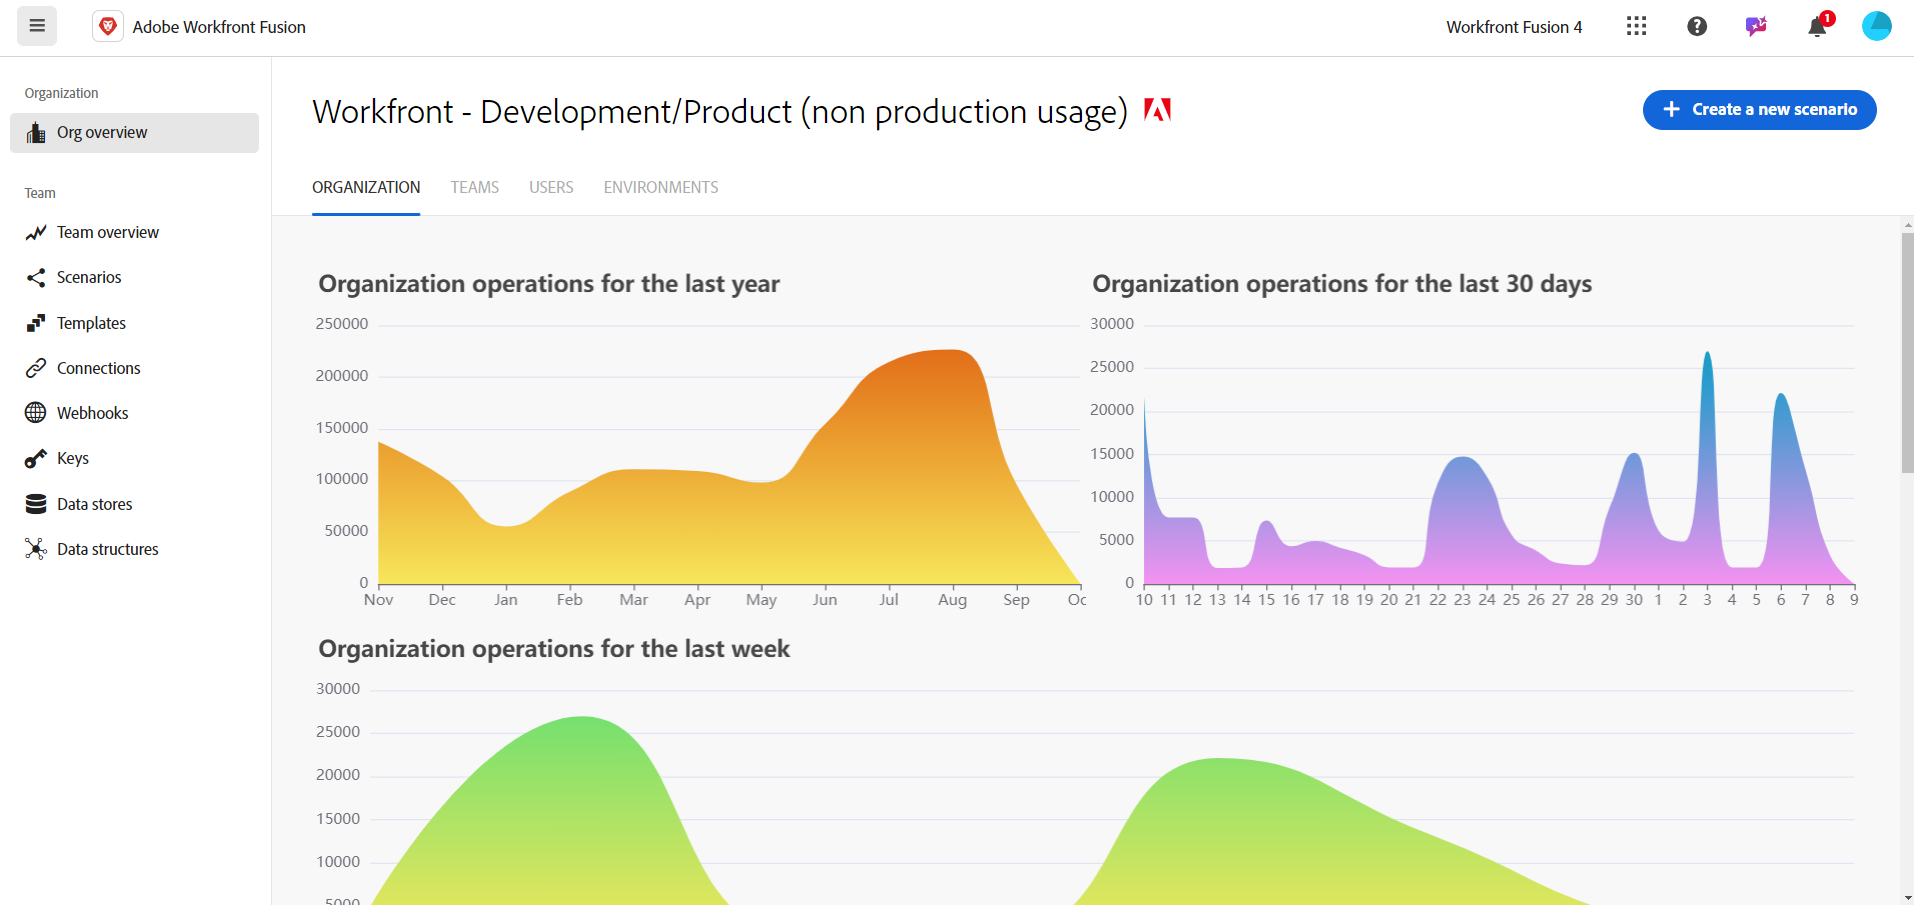
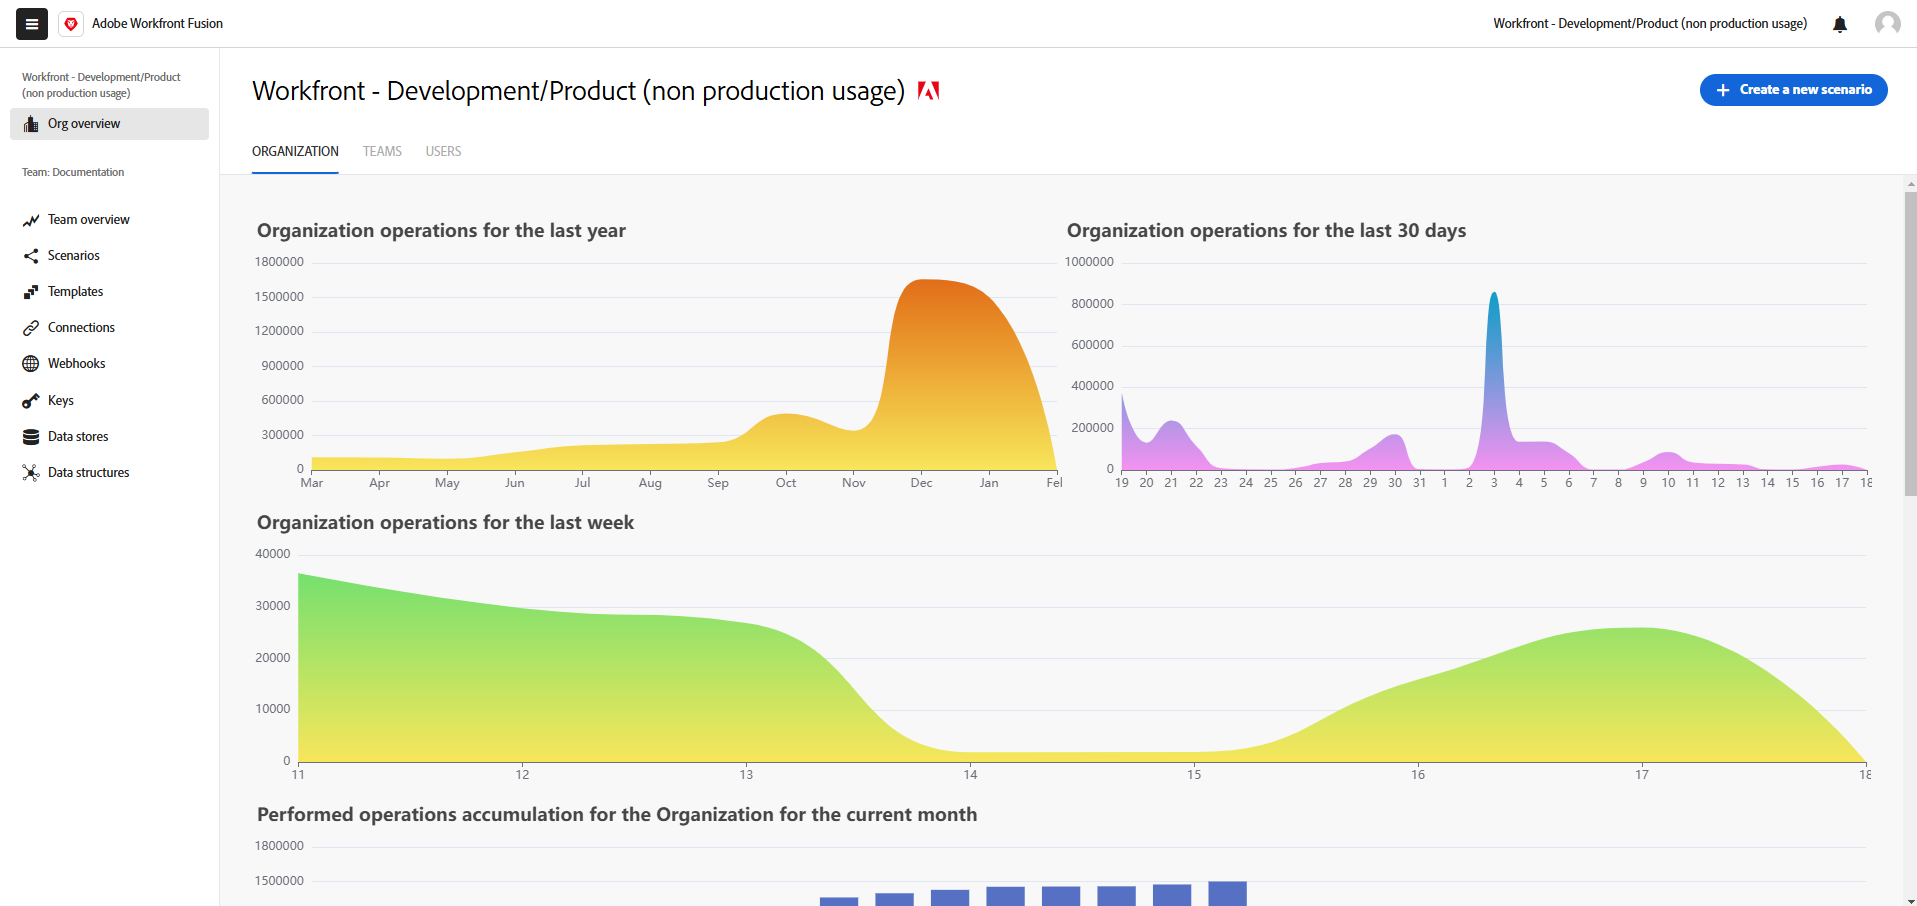
updates for left navigation

diff --git a/help/workfront-fusion/get-started-with-fusion/navigate-fusion/navigate-workfront-fusion.md b/help/workfront-fusion/get-started-with-fusion/navigate-fusion/navigate-workfront-fusion.md
@@ -13,8 +13,8 @@ This article introduces these areas, and provides links to more information abou
 
 | Area | Description | For more information, see |
 |---|---|---|
-| Org overview <br> ![Org icon](assets/org-icon.png) | Here, you can see information about your Fusion organization. You can view the number of operations performed by scenarios in this organization, as well as a list of active scenarios. You can also view lists of this organization's team, users, and environments.| [Organizations and teams](/help/workfront-fusion/set-up-and-manage-workfront-fusion/set-up-and-manage-orgs-and-teams/set-up-orgs-teams-and-users/org-and-team-overview.md) |
-| Team overview  <br> ![Team icon](assets/team-icon.png) | Here, you can see information about Fusion teams, such as the number of operations performed by scenarios in this team and a list of active scenarios. You can also view and manage the users on this team. When viewing a team, you can select a different team from a dropdown at the top of this page. | [Organiztions and teams](/help/workfront-fusion/set-up-and-manage-workfront-fusion/set-up-and-manage-orgs-and-teams/set-up-orgs-teams-and-users/org-and-team-overview.md)| 
+| Org overview <br> ![Org icon](assets/org-icon.png) | Here, you can see information about your Fusion organization. You can view the number of operations performed by scenarios in this organization, as well as a list of active scenarios. You can also view lists of this organization's team, users, and environments.<br>The currently selected organization displays above this icon.| [Organizations and teams](/help/workfront-fusion/set-up-and-manage-workfront-fusion/set-up-and-manage-orgs-and-teams/set-up-orgs-teams-and-users/org-and-team-overview.md) |
+| Team overview  <br> ![Team icon](assets/team-icon.png) | Here, you can see information about Fusion teams, such as the number of operations performed by scenarios in this team and a list of active scenarios. You can also view and manage the users on this team. When viewing a team, you can select a different team from a dropdown at the top of this page.<br>The currently selected team displays above this icon. | [Organiztions and teams](/help/workfront-fusion/set-up-and-manage-workfront-fusion/set-up-and-manage-orgs-and-teams/set-up-orgs-teams-and-users/org-and-team-overview.md)| 
 | Scenarios  <br> ![Scenarios icon](assets/scenarios-icon.png) | A scenario in Fusion represents an automated workflow. For example, one scenario may watch for incoming Workfront requests and convert them to projects, while another scenario may generate images, upload them to a document provider, and add approval tasks to Workfront. Most of your work in Fusion is configuring and managing scenarios. In the Scenarios area, you can view and organize a list of your team's scenarios, select individual scenarios to view or modify, or begin creating a new scenario. | [Scenario overview](/help/workfront-fusion/get-started-with-fusion/understand-fusion/scenario-overview.md) |
 | Templates  <br> ![Templates icon](assets/templates-icon.png) | Templates are prebuilt scenarios that you can configure for your own use cases. Here, you can see public scenarios provided by Workfront Fusion, as well as templates created by your team. | [Create and manage templates: article index](/help/workfront-fusion/create-and-manage-templates/create-manage-templates-toc.md) |
 | Connections  <br> ![Connections icon](assets/connections-icon.png)| Connections contain login credentials and permissions that allow Fusion to interact with other applications. You create a connection with a specific set of credentials and permissions for a specific application, and then use that connection in your scenario. The scenario can then access and modify the records or other data available to a user with those credentials and permissions. You can create multiple connections for an application, and can use a connection in multiple scenarios. In the Connections area, you can view and manage a list of connections that have been set up by your team.| [Connection overview](/help/workfront-fusion/get-started-with-fusion/understand-fusion/connection-overview.md) | 
